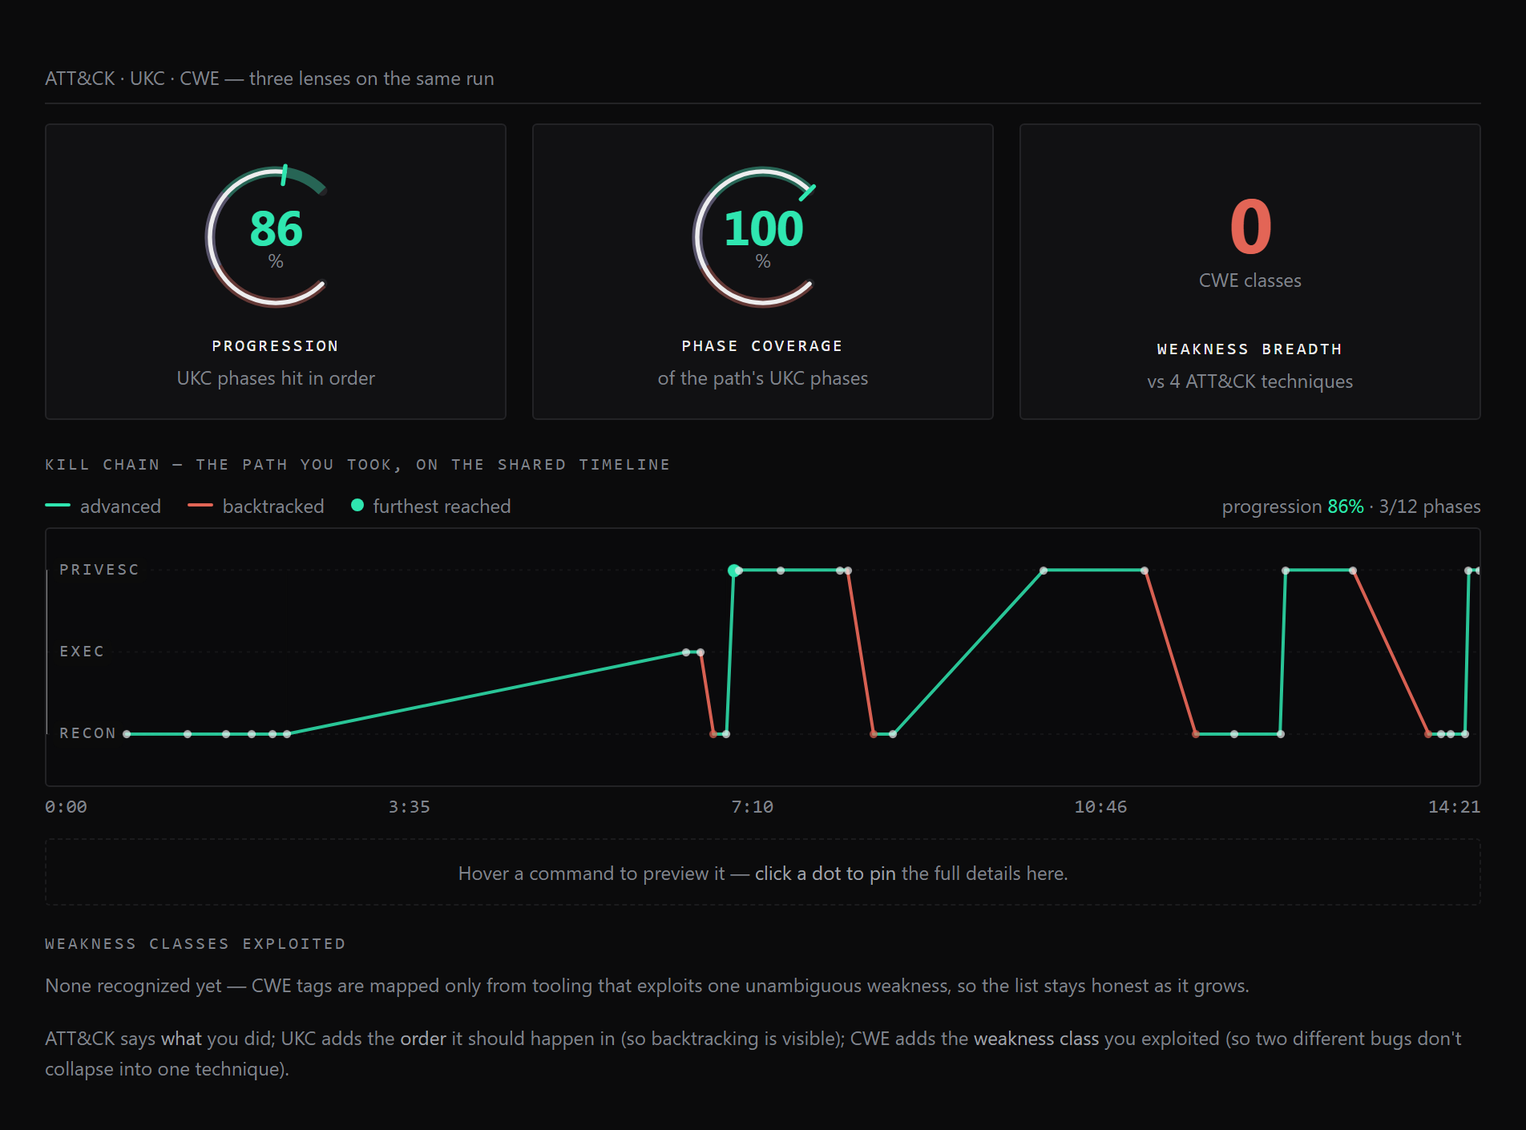
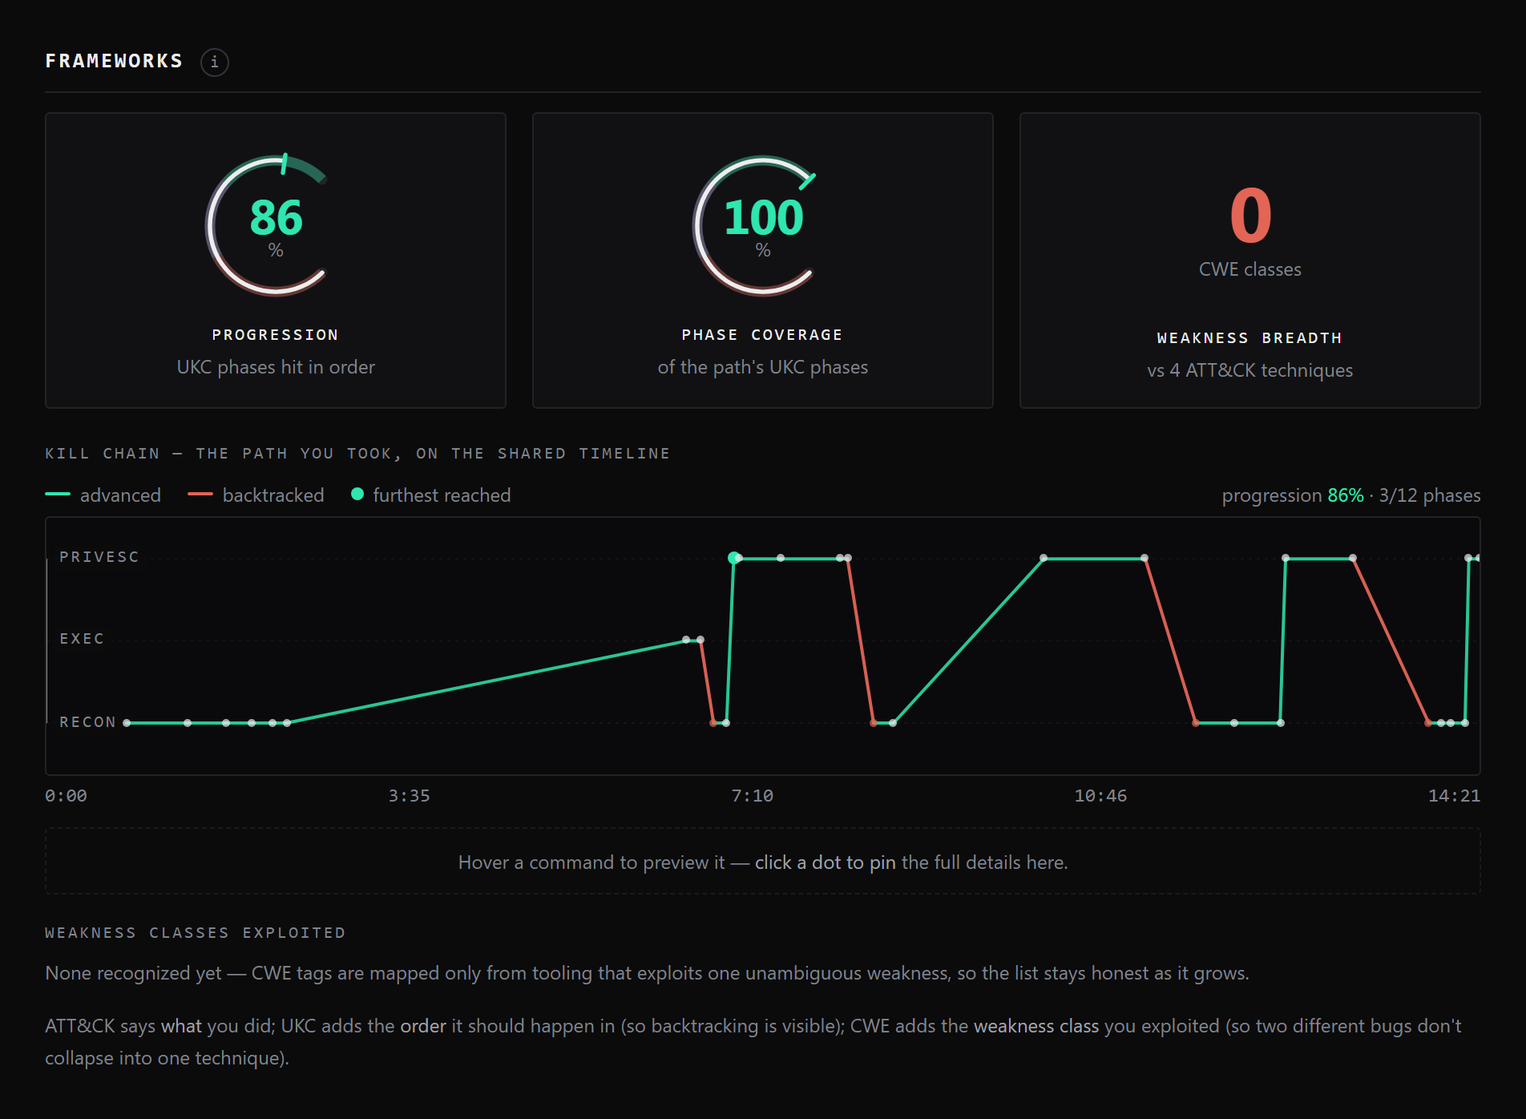
Debrief UX pass: hierarchy, docked detail views, one-lesson card
Restructures the debrief for clearer hierarchy and to surface detail that
was hidden in a bottom drawer.

Hierarchy & polish:
- Add a single .section-title tier (13px bold caps) for every top-level
  section anchor; standardize Debrief, Progress, History, and Writeup
  reference onto it, demoting sub-labels to .label.
- Disclosure summaries (Section, Collapse, WriteupControl) now hover-
  highlight with a brighter chevron; "Add to compare"/"Replace" is a real
  button pill.
- One lesson is now a bordered card (bg-panel); step figures dialed back to
  22px and vertically centered; the redundant "N steps..." caption removed.
- Wider section spacing (gap-6 -> gap-10). Neutralize ghost stat suffixes.

Distribute the deep-dive (option C):
- Remove the "Evidence & detail" tab drawer (delete DeepDive.tsx) and dock
  each view under the beat it explains: Findings under §01, the attack
  timeline under §02, deviations under §03 (ghost), stealth & frameworks
  under §04 (grade). Command log stays collapsed as the deep-link target.
- The views were already Sections with srTitle-hidden titles for the tabs;
  un-hide them. CommandReplay self-opens its #log <details> on reveal, so
  App's drawer-open state is gone.

Fix scripts/screenshots.mjs + SCREENSHOTS.md for the new inline structure
(shoot docked views by section id; open the command log before capture) and
regenerate docs/screenshots/*.png.

diff --git a/src/App.tsx b/src/App.tsx
@@ -1,4 +1,4 @@
-import { useEffect, useRef, useState, type CSSProperties, type ReactNode } from "react";
+import { type CSSProperties, type ReactNode } from "react";
 import { useReport } from "./store/report";
 import { PhaseAudit } from "./components/PhaseAudit";
 import { IdentityBar } from "./components/IdentityBar";
@@ -6,7 +6,12 @@ import { Assessment } from "./components/Assessment";
 import { SessionFacts } from "./components/SessionFacts";
 import { TrimControl } from "./components/TrimControl";
 import { Collapse, Section } from "./components/ui";
-import { DeepDive } from "./components/DeepDive";
+import { AttackTimeline } from "./components/AttackTimeline";
+import { StealthReport } from "./components/StealthReport";
+import { DeviationTimeline } from "./components/DeviationTimeline";
+import { FrameworkAxes } from "./components/FrameworkAxes";
+import { Findings } from "./components/Findings";
+import { CommandReplay } from "./components/CommandReplay";
 import { GhostCard } from "./components/GhostCard";
 import { PathComparison } from "./components/PathComparison";
 import { History } from "./components/History";
@@ -66,7 +71,7 @@ function HeroLesson({ lesson: lessonProp, total: totalProp }: { lesson?: OneLess
   const p = lesson.pivot;
   const total = totalProp !== undefined ? totalProp : report.episodes.length;
   const body = (
-    <div className="grid gap-10 md:grid-cols-[minmax(0,1fr)_290px] md:items-end">
+    <div className="grid gap-10 md:grid-cols-[minmax(0,1fr)_290px] md:items-center">
       <div>
         <span className="label text-signal">The one lesson</span>
         <p className="mt-3 text-balance font-display text-[26px] font-bold leading-[1.08] tracking-[-0.03em] text-fg sm:text-[34px]">
@@ -83,7 +88,7 @@ function HeroLesson({ lesson: lessonProp, total: totalProp }: { lesson?: OneLess
       {p && total > 0 && <StepStrip unlock={p.unlock_seq} acted={p.acted_seq} total={total} />}
     </div>
   );
-  const cls = "block w-full border-y border-edge py-7 text-left";
+  const cls = "block w-full rounded-lg border border-edge bg-panel px-6 py-7 text-left";
   if (lesson.evidence_seq == null) {
     return (
       <div data-shot="one-lesson" className={cls}>
@@ -92,7 +97,7 @@ function HeroLesson({ lesson: lessonProp, total: totalProp }: { lesson?: OneLess
     );
   }
   return (
-    <button type="button" data-shot="one-lesson" onClick={() => reveal(lesson.evidence_seq!)} className={`${cls} transition-colors hover:bg-panel/60`} title={`Replay step ${lesson.evidence_seq}`}>
+    <button type="button" data-shot="one-lesson" onClick={() => reveal(lesson.evidence_seq!)} className={`${cls} transition-colors hover:border-edge-bright hover:bg-panel-2`} title={`Replay step ${lesson.evidence_seq}`}>
       {body}
     </button>
   );
@@ -180,36 +185,13 @@ function DefenseDebrief({ report }: { report: DefenseReport }) {
 }
 
 export function App() {
-  const { report, view, gateDismissed, revealNonce, onboardingOpen, openOnboarding, setOnboardingStep, sessionCards, defenseReport } = useReport();
+  const { report, view, gateDismissed, onboardingOpen, openOnboarding, setOnboardingStep, sessionCards, defenseReport } = useReport();
   const { session } = report;
   const needsWriteup = report.golden_dag.length === 0 && !gateDismissed;
   const recording = isLiveRecording(report);
 
   const hasRealCapture = sessionCards.some((c) => !c.demo);
   const showNudge = !onboardingOpen && shouldShowNudge({ onboarded: true, hasRealCapture });
-
-  // The Evidence drawer starts closed; a deep-link reveal (a "step N ↗" click from PhaseAudit,
-  // coaching, or GhostCard) must force it open so DeepDive's log-tab-and-scroll effect has a
-  // visible panel to scroll — otherwise the scroll is a no-op inside a closed <details>.
-  const [evidenceOpen, setEvidenceOpen] = useState(false);
-
-  // `revealNonce` is global on the store and never resets on session switch (App mounts once,
-  // with no key), so it stays > 0 for the tab's whole life once any reveal has fired. Force-closed
-  // on every session change so a fresh (or re-opened) report never inherits a prior session's
-  // force-opened drawer.
-  useEffect(() => {
-    setEvidenceOpen(false);
-  }, [report.session.uuid]);
-
-  // Open only on a genuine reveal within the current session — i.e. an actual increment of
-  // `revealNonce`, not merely a render where it happens to already be > 0 (initial mount, or a
-  // session switch that leaves the nonce unchanged from before).
-  const lastRevealNonce = useRef(revealNonce);
-  useEffect(() => {
-    const prev = lastRevealNonce.current;
-    lastRevealNonce.current = revealNonce;
-    if (revealNonce > 0 && revealNonce !== prev) setEvidenceOpen(true);
-  }, [revealNonce]);
 
   const hasGhost = !!report.ghost?.items?.length;
   const num = { path: "01", audit: "02", ghost: "03", grade: hasGhost ? "04" : "03" };
@@ -278,7 +260,7 @@ export function App() {
           ) : needsWriteup ? (
             <WriteupGate />
           ) : (
-            <div className="mx-auto flex max-w-4xl flex-col gap-6">
+            <div className="mx-auto flex max-w-4xl flex-col gap-10">
               {/* 1. verdict band — identity + grade + stealth + rooted + platform, full width */}
               <Rise i={0} id="identity">
                 <IdentityBar />
@@ -297,22 +279,38 @@ export function App() {
                 <HeroLesson />
               </Rise>
 
+              {/* The debrief spine is the four numbered beats (path → phases → ghost → grade); each
+                  detail view is now docked directly beneath the beat it explains, instead of pooled in
+                  one "Evidence & detail" drawer at the foot of the page. The views are already their own
+                  <Section>s (titles previously hidden with srTitle for the tab bar) — surfaced here. */}
+
               {/* 3. what you'd do differently */}
               <Rise i={3} id="path">
                 <PathComparison num={num.path} />
               </Rise>
 
+              {/* └ findings — the evidence the run produced, behind the objectives above */}
+              <Rise i={4} id="findings">
+                <Section title="Findings" subtitle="the evidence your run produced — cross-referenced by the objectives above">
+                  <Findings />
+                </Section>
+              </Rise>
+
               {/* 4. phase audit — the actionable per-phase spine (its own takeaway banner is suppressed,
                   since the hero above already leads with it) */}
-              <Rise i={4} id="audit">
+              <Rise i={5} id="audit">
                 <PhaseAudit hideTakeaway num={num.audit} />
               </Rise>
 
-              {/* 4b. you vs. the ghost — the optimal line from where you stood, visible in the main
-                  narrative (not buried in the collapsed drawer below). Guarded so old reports with no
-                  ghost data render nothing here. */}
+              {/* └ the attack timeline — how the phases above unfolded, command by command */}
+              <Rise i={6} id="timeline">
+                <AttackTimeline />
+              </Rise>
+
+              {/* 4b. you vs. the ghost — the optimal line from where you stood. Guarded so old reports
+                  with no ghost data render nothing here. */}
               {report.ghost?.items?.length ? (
-                <Rise i={5} id="ghost">
+                <Rise i={7} id="ghost">
                   <Section
                     title="You vs. the Ghost"
                     num={num.ghost}
@@ -327,19 +325,34 @@ export function App() {
                 </Rise>
               ) : null}
 
-              {/* 4c. the grade — visible in the main narrative (not buried in the collapsed drawer
-                  below), since a verdict this load-bearing shouldn't need a click to see. */}
-              <Rise i={6} id="grade">
+              {/* └ where the time went — the deviations behind the time the ghost lost above */}
+              <Rise i={8} id="deviation">
+                <DeviationTimeline />
+              </Rise>
+
+              {/* 4c. the grade — the explainable rubric verdict */}
+              <Rise i={9} id="grade">
                 <Assessment num={num.grade} />
               </Rise>
 
-              {/* 5. evidence & detail — the raw record, collapsed by default. `Collapse` is a native
-                  <details>: its children stay in the DOM (just visually hidden) even when closed, so the
-                  static export still carries every section's markup. Subtitle removed (spec §5.1): a
-                  header is a label, not another sentence. */}
-              <Collapse title="Evidence & detail" open={evidenceOpen} onToggle={setEvidenceOpen} summaryDataShot="evidence-drawer-summary">
-                <DeepDive />
-              </Collapse>
+              {/* └ stealth & noise — the loudness behind the stealth dimension of the grade above */}
+              <Rise i={10} id="stealth">
+                <StealthReport />
+              </Rise>
+
+              {/* └ frameworks — the kill-chain/weakness coverage behind breadth & progression */}
+              <Rise i={11} id="frameworks">
+                <FrameworkAxes />
+              </Rise>
+
+              {/* the raw record — the full command log, collapsed as the drill-down. It stays the
+                  deep-link target: CommandReplay finds this #log wrapper, opens the <details> inside,
+                  and centers the revealed row itself (see CommandReplay's reveal effect). */}
+              <div id="log">
+                <Collapse title="Command log" subtitle="the full command-by-command record — the deep-link target">
+                  <CommandReplay />
+                </Collapse>
+              </div>
 
               {/* 6. session window */}
               <Collapse title="Session window" subtitle="session facts · retroactively trim the report">

diff --git a/src/components/ui.tsx b/src/components/ui.tsx
@@ -80,8 +80,8 @@ export function Section({
   lead?: SectionLead;
 }) {
   const titleEl = title && (
-    <h2 className={`label ${srTitle ? "sr-only" : ""}`}>
-      {num && <span className="mr-3 text-signal">{num}</span>}
+    <h2 className={`section-title ${srTitle ? "sr-only" : ""}`}>
+      {num && <span className="mr-3 font-bold text-signal">{num}</span>}
       {title}
     </h2>
   );
@@ -97,9 +97,9 @@ export function Section({
         className={`group/sec relative ${i != null ? "rise" : ""} ${className}`}
         style={i != null ? ({ "--i": i } as CSSProperties) : undefined}
       >
-        <summary className="flex cursor-pointer list-none items-baseline justify-between gap-4 py-1 [&::-webkit-details-marker]:hidden">
+        <summary className="-mx-2 flex cursor-pointer list-none items-baseline justify-between gap-4 rounded-md px-2 py-1.5 transition-colors hover:bg-panel-2/60 [&::-webkit-details-marker]:hidden">
           <div className="flex items-baseline gap-2.5">
-            <ChevronDown className="text-faint transition-transform duration-200 group-open/sec:rotate-180" />
+            <ChevronDown className="text-muted transition-transform duration-200 group-hover/sec:text-fg group-open/sec:rotate-180" />
             {titleEl}
             {subEl}
           </div>
@@ -173,9 +173,9 @@ export function Collapse({
       className={`group/sec relative ${className}`}
       onToggle={controlled ? (e) => onToggle?.((e.currentTarget as HTMLDetailsElement).open) : undefined}
     >
-      <summary data-shot={summaryDataShot} className="flex cursor-pointer list-none items-baseline gap-2.5 py-1 [&::-webkit-details-marker]:hidden">
-        <ChevronDown className="text-faint transition-transform duration-200 group-open/sec:rotate-180" />
-        <h2 className="label">{title}</h2>
+      <summary data-shot={summaryDataShot} className="-mx-2 flex cursor-pointer list-none items-baseline gap-2.5 rounded-md px-2 py-1.5 transition-colors hover:bg-panel-2/60 [&::-webkit-details-marker]:hidden">
+        <ChevronDown className="text-muted transition-transform duration-200 group-hover/sec:text-fg group-open/sec:rotate-180" />
+        <h2 className="section-title">{title}</h2>
         {subtitle && <InfoTip text={subtitle} />}
       </summary>
       <div className="mt-2 h-px bg-edge" />

diff --git a/src/components/WriteupControl.tsx b/src/components/WriteupControl.tsx
@@ -123,9 +123,9 @@ export function WriteupControl() {
 
   return (
     <details className="group border-b border-edge">
-      <summary className="flex cursor-pointer list-none items-center gap-2 py-2.5">
+      <summary className="-mx-2 flex cursor-pointer list-none items-center gap-2 rounded-md px-2 py-2.5 transition-colors hover:bg-panel-2/60 [&::-webkit-details-marker]:hidden">
         <div className="flex min-w-0 flex-col gap-0.5">
-          <span className="flex items-center gap-1.5 text-faint">
+          <span className="flex items-center gap-1.5 text-muted transition-colors group-hover:text-fg">
             <svg width="13" height="13" viewBox="0 0 24 24" fill="none" stroke="currentColor" strokeWidth={2} strokeLinecap="round" strokeLinejoin="round" className="shrink-0">
               <path d="M14 2H6a2 2 0 0 0-2 2v16a2 2 0 0 0 2 2h12a2 2 0 0 0 2-2V8z" />
               <polyline points="14 2 14 8 20 8" />
@@ -133,7 +133,7 @@ export function WriteupControl() {
               <line x1="16" y1="17" x2="8" y2="17" />
               <line x1="10" y1="9" x2="8" y2="9" />
             </svg>
-            <span className="label">Writeup reference</span>
+            <span className="section-title">Writeup reference</span>
           </span>
           {writeup ? (
             <span className="flex items-center gap-1.5 text-sm">
@@ -147,7 +147,7 @@ export function WriteupControl() {
             </span>
           )}
         </div>
-        <span className="ml-auto flex shrink-0 items-center gap-1.5 text-xs text-faint">
+        <span className="ml-auto inline-flex shrink-0 items-center gap-1.5 rounded-md border border-edge-bright px-2.5 py-1 text-xs font-medium text-muted transition-colors group-hover:border-signal group-hover:text-fg">
           {writeup ? "Replace" : "Add to compare"}
           <ChevronDown className="transition-transform group-open:rotate-180" />
         </span>

diff --git a/src/components/StepStrip.tsx b/src/components/StepStrip.tsx
@@ -35,7 +35,7 @@ const CELL_STYLE = {
 /** The lesson's figure: a bucketed strip of cells: mint where it opened, coral dither for the wait, coral where you acted. */
 export function StepStrip({ unlock, acted, total }: { unlock: number; acted: number; total: number }) {
   const cells = stepCells(unlock, acted, total);
-  const big = "mt-1.5 block font-display text-[30px] font-bold leading-none tracking-[-0.03em]";
+  const big = "mt-1.5 block font-display text-[22px] font-bold leading-none tracking-[-0.03em]";
   return (
     <div role="img" aria-label={`Unlocked at step ${unlock}, acted at step ${acted}`}>
       <div className="label flex items-baseline justify-between">
@@ -51,7 +51,6 @@ export function StepStrip({ unlock, acted, total }: { unlock: number; acted: num
           <i key={i} className="block" style={CELL_STYLE[kind]} />
         ))}
       </div>
-      <p className="mt-2 text-xs text-muted">{acted - unlock} steps where the next move was already on the table</p>
     </div>
   );
 }

diff --git a/src/index.css b/src/index.css
@@ -86,6 +86,18 @@ body {
     color: var(--color-faint);
   }
 
+  /* section anchor: the top header tier for a numbered narrative section — same mono-caps
+     identity as .label, but larger, heavier and full-bright so it clearly outranks the sub-labels
+     (.label) nested inside it. This gap is the page's primary hierarchy. */
+  .section-title {
+    font-family: var(--font-mono);
+    text-transform: uppercase;
+    letter-spacing: 0.12em;
+    font-weight: 600;
+    font-size: 0.8125rem; /* 13px */
+    color: var(--color-fg);
+  }
+
   .mono {
     font-family: var(--font-mono);
     font-feature-settings: "tnum";

diff --git a/src/components/History.tsx b/src/components/History.tsx
@@ -147,7 +147,7 @@ export function History() {
       <input ref={fileRef} type="file" accept="application/json,.json,.har,.jsonl,.ndjson" className="hidden" onChange={(e) => void importFile(e.target.files?.[0])} />
       <div className="mb-5 flex flex-wrap items-baseline justify-between gap-3">
         <div className="flex items-baseline gap-3">
-          <h2 className="label text-muted">Engagement history</h2>
+          <h2 className="section-title">Engagement history</h2>
           <span className="text-xs text-faint">{cards.length} runs · click to open the debrief</span>
         </div>
         <button

diff --git a/src/components/FrameworkAxes.tsx b/src/components/FrameworkAxes.tsx
@@ -15,7 +15,7 @@ export function FrameworkAxes() {
   const weaknesses = runWeaknesses(report.episodes);
 
   return (
-    <Section title="Frameworks" subtitle="ATT&CK · UKC · CWE — three lenses on the same run" srTitle>
+    <Section title="Frameworks" subtitle="ATT&CK · UKC · CWE — three lenses on the same run">
       {/* three headline readouts */}
       <div className="grid grid-cols-1 gap-4 sm:grid-cols-3">
         <div className="flex flex-col items-center gap-2 rounded-lg border border-edge bg-panel px-3 py-4">

diff --git a/src/components/DeviationTimeline.tsx b/src/components/DeviationTimeline.tsx
@@ -170,7 +170,7 @@ export function DeviationTimeline() {
   );
 
   return (
-    <Section title="Where you deviated" subtitle="measured against your own run — not an optimal path" right={legend} srTitle>
+    <Section title="Where you deviated" subtitle="measured against your own run — not an optimal path" right={legend}>
       {/* glance readouts — align tops so the numbers sit on one row and any sub-caption hangs below */}
       <div className="mb-3 flex flex-wrap items-start gap-x-8 gap-y-3">
         <Readout

diff --git a/src/components/StealthReport.tsx b/src/components/StealthReport.tsx
@@ -89,7 +89,6 @@ export function StealthReport() {
     <Section
       title="Stealth & Noise"
       subtitle="footprint over the run — cumulative builds, exposure decays"
-      srTitle
       right={
         <span>
           Stealth{" "}

diff --git a/scripts/SCREENSHOTS.md b/scripts/SCREENSHOTS.md
@@ -37,26 +37,27 @@ This chains three steps (each also runnable on its own):
 `node scripts/screenshots.mjs` can also be run on its own — it re-runs steps 1 and 2 itself via
 `child_process` first, so it's self-sufficient even outside the `screenshots` npm script.
 
-## Capture anchors (`data-shot`)
+## Capture targets
 
-Presentation-only `data-shot="…"` attributes mark the elements the script targets — inert otherwise,
-safe to leave in place:
+The narrative sections are shot by their presentation-only `data-shot="…"` anchors (inert otherwise,
+safe to leave in place). The docked detail views — no longer pooled in an "Evidence & detail" drawer,
+but inline under the beat each explains — are shot by their stable section-wrapper `id` instead. All
+are visible without interaction except the Command log, which the script opens first.
 
-| `data-shot`             | Component               | Written to                            |
+| Selector                | Component               | Written to                            |
 | ------------------------ | ------------------------ | -------------------------------------- |
-| `verdict`                | `IdentityBar`             | `docs/screenshots/identity.png`        |
-| `path`                   | `PathComparison`          | `docs/screenshots/path-comparison.png` |
-| `phase-audit`            | `PhaseAudit`              | `docs/screenshots/phase-audit.png`     |
-| `ghost`                  | `GhostCard`               | `docs/screenshots/ghost.png`           |
-| `grade`                  | `Assessment`              | `docs/screenshots/grade.png`           |
-| `one-lesson`             | `App.tsx`'s `HeroLesson`  | *(anchor only — not currently captured; no README image yet)* |
-| `evidence-drawer-summary`| `Collapse`'s `<summary>` (App.tsx's "Evidence & detail") | *(click target, to open the drawer)* |
-| `deepdive-timeline`      | `DeepDive` tab panel      | `docs/screenshots/attack-timeline.png` |
-| `deepdive-stealth`       | `DeepDive` tab panel      | `docs/screenshots/stealth.png`         |
-| `deepdive-deviation`     | `DeepDive` tab panel      | `docs/screenshots/deviation-timeline.png` |
-| `deepdive-frameworks`    | `DeepDive` tab panel      | `docs/screenshots/frameworks.png`      |
-| `deepdive-findings`      | `DeepDive` tab panel      | *(anchor only — no README image yet)*  |
-| `deepdive-log`           | `DeepDive` tab panel      | `docs/screenshots/command-log.png`     |
+| `[data-shot="verdict"]`  | `IdentityBar`             | `docs/screenshots/identity.png`        |
+| `[data-shot="path"]`     | `PathComparison`          | `docs/screenshots/path-comparison.png` |
+| `[data-shot="phase-audit"]` | `PhaseAudit`           | `docs/screenshots/phase-audit.png`     |
+| `[data-shot="ghost"]`    | `GhostCard`               | `docs/screenshots/ghost.png`           |
+| `[data-shot="grade"]`    | `Assessment`              | `docs/screenshots/grade.png`           |
+| `[data-shot="one-lesson"]` | `App.tsx`'s `HeroLesson` | *(anchor only — not currently captured; no README image yet)* |
+| `#timeline`              | `AttackTimeline`          | `docs/screenshots/attack-timeline.png` |
+| `#deviation`             | `DeviationTimeline`       | `docs/screenshots/deviation-timeline.png` |
+| `#stealth`               | `StealthReport`           | `docs/screenshots/stealth.png`         |
+| `#frameworks`            | `FrameworkAxes`           | `docs/screenshots/frameworks.png`      |
+| `#findings`              | `Findings`                | *(docked under §01 — no README image yet)* |
+| `#log`                   | `CommandReplay` (`Collapse`, opened first) | `docs/screenshots/command-log.png` |
 
 ## What this does NOT cover
 
